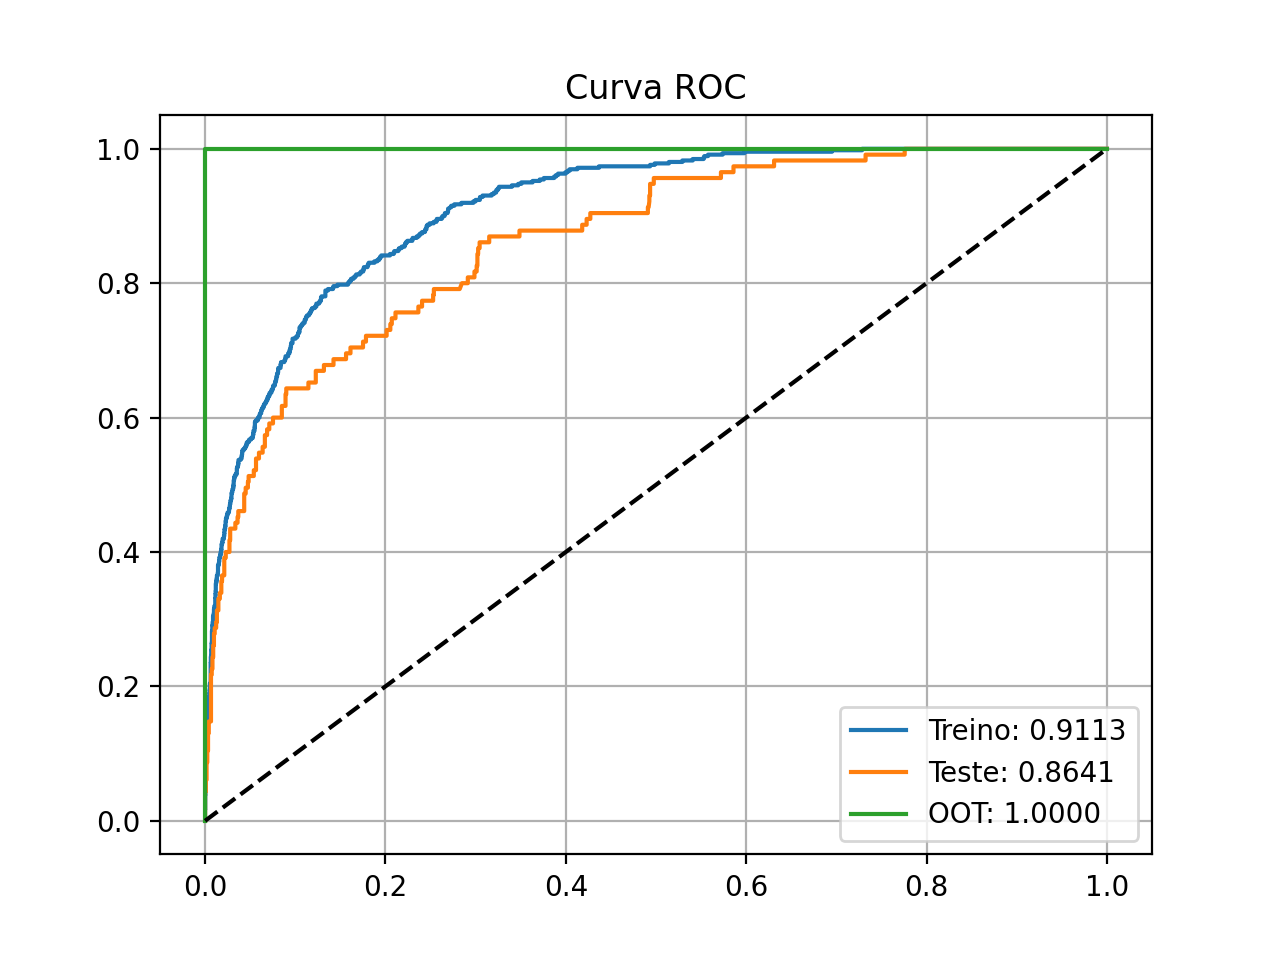
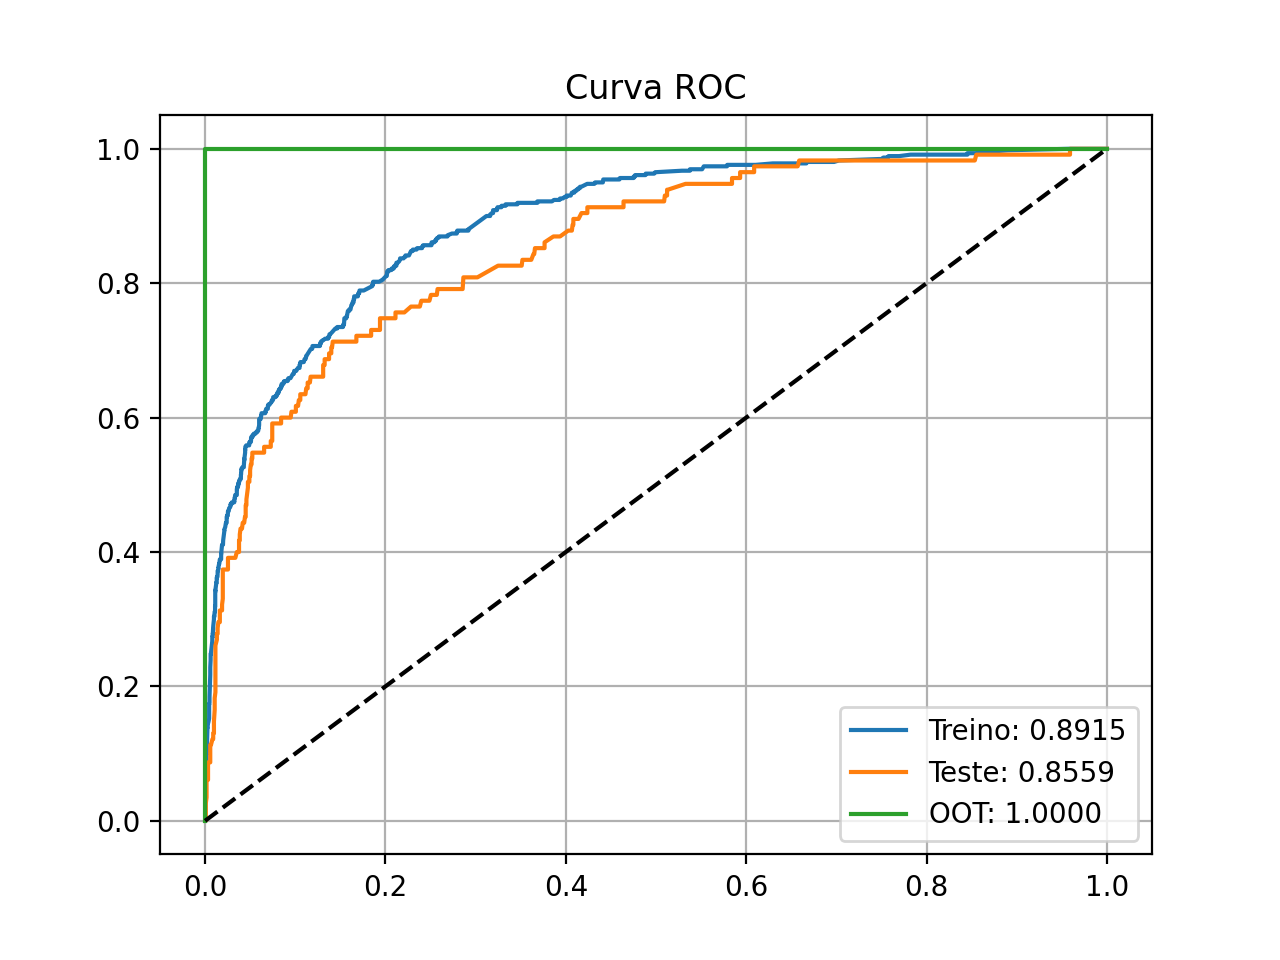
feat: tuning com gridsearch

Changed region(s): [[0.1562, 0.1562, 0.8438, 0.8125], [0.8125, 0.75, 0.875, 0.875], [0.7188, 0.8438, 0.75, 0.875]]

diff --git a/src/analytics/train.py b/src/analytics/train.py
@@ -106,24 +106,34 @@ onehot = encoding.OneHotEncoder(variables=cat_features)
 
 # %%
 # MODEL
-
-#model = tree.DecisionTreeClassifier(random_state=42,
-#                                    min_samples_leaf=50)
-model = ensemble.RandomForestClassifier(random_state=42,
-                                        n_estimators=150,
-                                        n_jobs=1,
-                                        min_samples_leaf=60)
+model = ensemble.AdaBoostClassifier(random_state=42)
 # %%
 # Criando PIPELINE
+params = {
+    "n_estimators": [100,200,400,500,1000],
+    "learning_rate": [0.01,0.05,0.1,0.2,0.3]
+}
+
+grid = model_selection.GridSearchCV(
+    model,
+    param_grid=params,
+    cv=3,
+    scoring='roc_auc',
+    refit=True,
+    verbose=3,
+    n_jobs=5
+)
+
 model_pipeline = pipeline.Pipeline(steps=[
     ('Remoção de Features', drop_features),
     ('Imputação de Zeros',imput_0),
     ('Imputação de Nao-Usuario', imput_new),
     ('Imputação de 1000', imput_1000),
     ('OneHotEncoding', onehot),
-    ('Algoritmo', model)
+    ('Algoritmo', grid)
 ])
 
+# %%
 with mlflow.start_run() as r:
 
     mlflow.sklearn.autolog()
